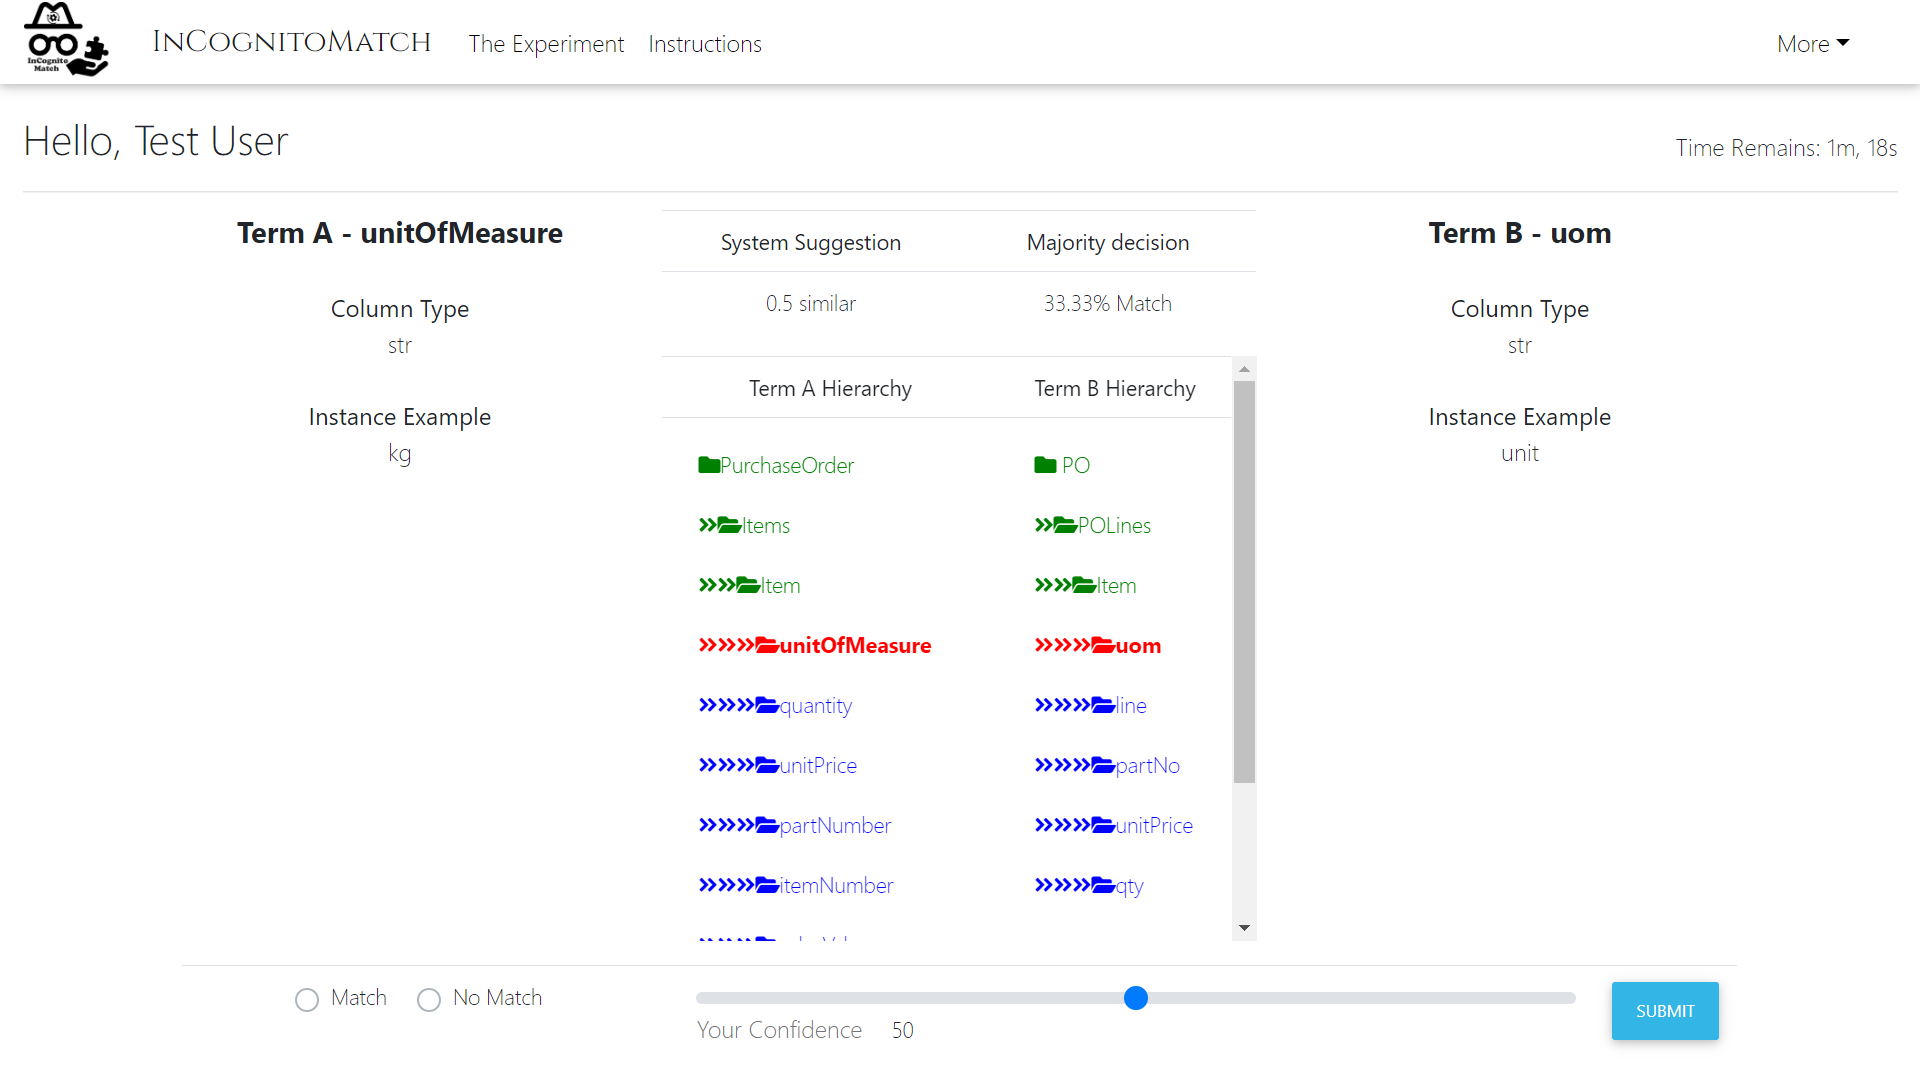
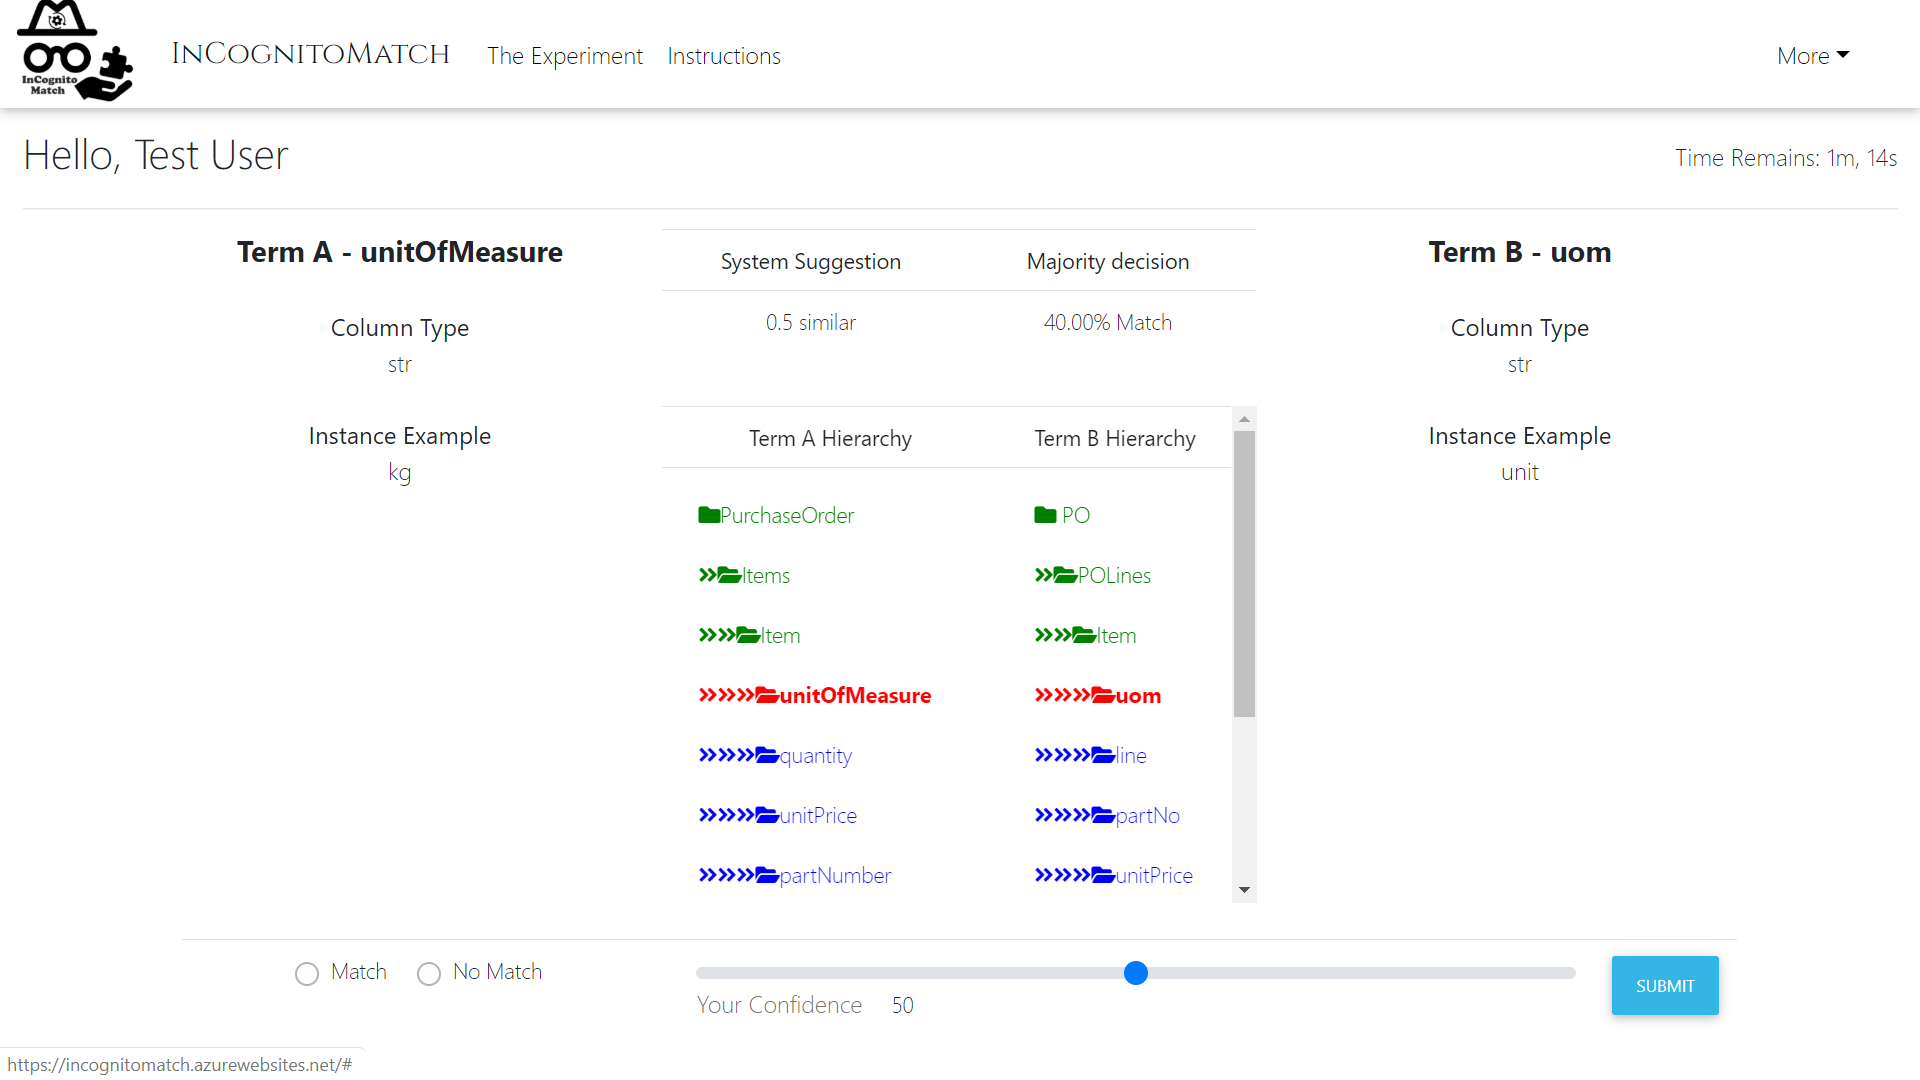
update height of exp and nav to percents

diff --git a/js/project.js b/js/project.js
@@ -133,7 +133,7 @@ app.controller('avivTest', function ($scope, $http,$compile, $interval, fileUplo
         $("#loading").hide();
         $("#instruction_after").hide();
         $("#statistics").hide();
-        //document.getElementById("schemaMatchingExp").style.overflow = 'auto';
+        document.getElementById("schemaMatchingExp").style.overflow = 'auto';
     };
 
     $scope.show_riddle = function () {
@@ -286,7 +286,7 @@ app.controller('avivTest', function ($scope, $http,$compile, $interval, fileUplo
         //$scope.userScreenHeight = document.body.clientHeight; //window.screen.availHeight;
 
         window.scrollTo(0,0);
-        //document.getElementById("schemaMatchingExp").style.overflow = 'hidden';
+        document.getElementById("schemaMatchingExp").style.overflow = 'hidden';
 
         $("#experiment").show();
 
@@ -629,7 +629,7 @@ app.controller('avivTest', function ($scope, $http,$compile, $interval, fileUplo
                         $("#experiment").hide();
                         clearInterval($scope.timeElapsed);
 
-                        //document.getElementById("schemaMatchingExp").style.overflow = 'auto';
+                        document.getElementById("schemaMatchingExp").style.overflow = 'auto';
 
                         $("#loading").show();
                         var isSingleUser = 'True';
@@ -716,7 +716,7 @@ app.controller('avivTest', function ($scope, $http,$compile, $interval, fileUplo
                 $("#experiment").hide();
                 clearInterval($scope.timeElapsed);
 
-                //document.getElementById("schemaMatchingExp").style.overflow = 'auto';
+                document.getElementById("schemaMatchingExp").style.overflow = 'auto';
 
                 $("#loading").show();
                 var isSingleUser = 'True';

diff --git a/html/exp.html b/html/exp.html
@@ -4,12 +4,12 @@ ng-click="show_coordinate($event)">
     <div class="row" style="height: 10%">
         <div class="col-sm-12" style="height: 100%">
 
-            <div class="row" style="height: 75%">
+            <div class="row" style="height: 70%">
                 <div class="col-sm-7" style="height: 100%">
                     <h3 id="exp_hello"></h3>
                 </div>
                 <div class="col-sm-5" style="height: 95%">
-                    <h6 id="time_elapsed" style="float: right; margin-top: 5%;"></h6>
+                    <h6 id="time_elapsed" style="float: right; margin-top: 2%;"></h6>
                 </div>
             </div>
 

diff --git a/html/home.html b/html/home.html
@@ -31,10 +31,10 @@
   </div>
 
  </div>
--->
+
  <button class="btn btn-md btn-info m-1 px-3" type="button" ng-click="capture_screen()">Capture Screen</button>
  <br>
- <img src="" id="capture_screen">
+ <img src="" id="capture_screen">-->
 
 </div>
 
